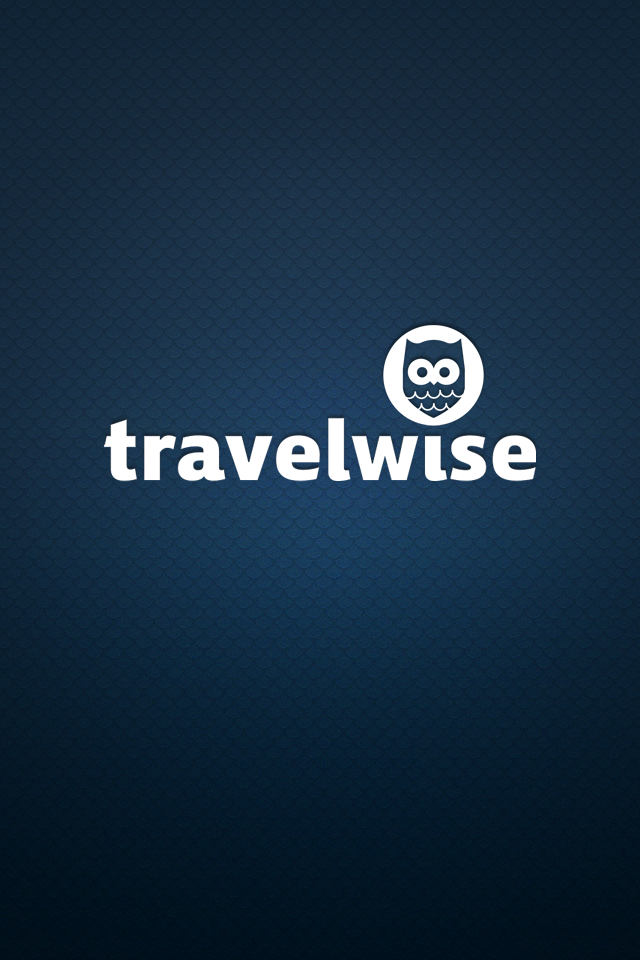
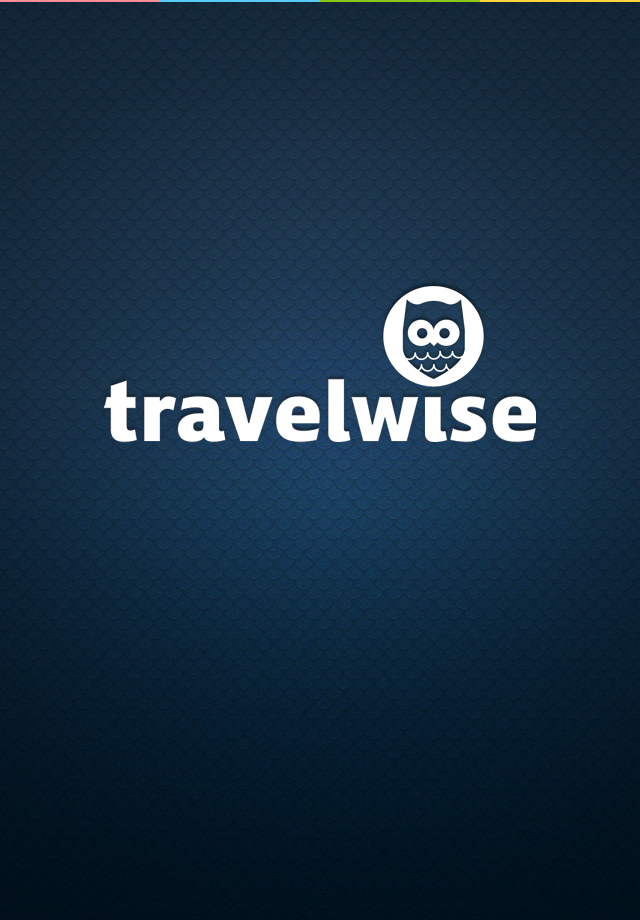
header bar change

Changed region(s): [[0.1562, 0.3043, 0.8438, 0.5174]]

diff --git a/myTranspo/AppDelegate.m b/myTranspo/AppDelegate.m
@@ -34,6 +34,11 @@
         _panGesture = [[UIPanGestureRecognizer alloc] initWithTarget:_menuController action:@selector(revealGesture:)];
         _navPanGesture = [[UIPanGestureRecognizer alloc] initWithTarget:_menuController action:@selector(revealGesture:)];
         _tap = [[UITapGestureRecognizer alloc] initWithTarget:_menuController action:@selector(revealToggle:)];
+        
+        _rainbowBar = [[UIImageView alloc] initWithImage:[UIImage imageNamed:@"global_topcolour_bar.png"]];
+        CGRect rainbowFrame = _rainbowBar.frame;
+        rainbowFrame.origin.y = 0;
+        _rainbowBar.frame = rainbowFrame;
     }
     
     return self;
@@ -52,6 +57,7 @@
     //auto goto favorites if we need an update or notified of upcoming bus
     [self launchNewView:(localNotification == nil) ? [MTSettings startupScreen] : MTVCMYBUSES]; 
     
+    [_menuController.view addSubview:_rainbowBar];
     self.window.rootViewController = _menuController;
     [self.window makeKeyAndVisible];
     

diff --git a/myTranspo/Library/MTHelper.m b/myTranspo/Library/MTHelper.m
@@ -162,15 +162,11 @@
     if(date == nil)
         return NO;
     
-#if 0
+#if 1
     NSDateComponents* components = [[NSCalendar currentCalendar] components:NSDayCalendarUnit fromDate:[NSDate date] toDate:date options:0];
     NSLog(@"%@ %d %@", [NSDate date], components.day, date);
     return (components.day == 0) ? YES : NO;
 #endif
-    int day1 = [self DayOfWeekForDate:date];
-    int day2 = [self DayOfWeek];
-    //NSLog(@"Day1: %d - Day2: %d", day1, day2);
-    return (day1 == day2) ? YES : NO;
 }
 
 + (MTTranspoTypes)transpoTypeBasedOnCity:(MTCity)city

diff --git a/myTranspo/AppDelegate.h b/myTranspo/AppDelegate.h
@@ -36,6 +36,7 @@
     MTLanguage                      _language;
     NSArray*                        _routeNotices; //stores all the routes that have a notice
     NSDate*                         _lastDate;
+    UIImageView*                    _rainbowBar;
 }
 
 @property (strong, nonatomic) UIWindow *window;
